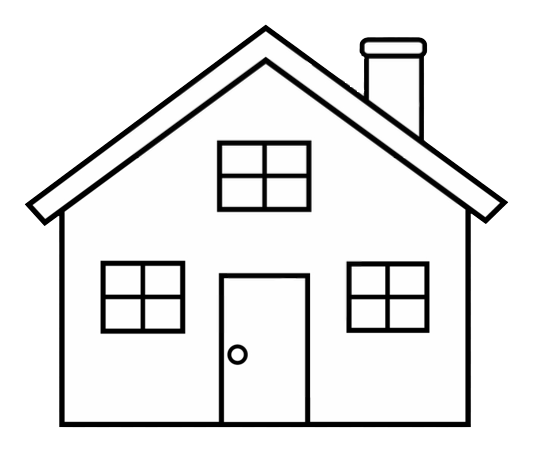
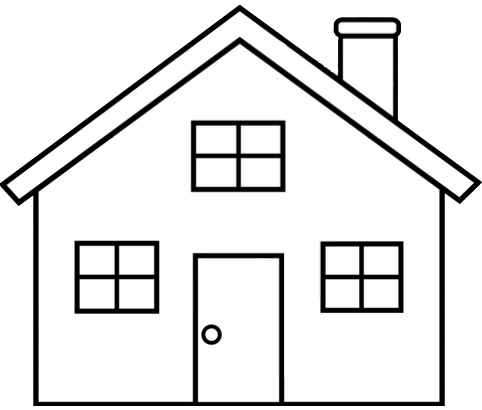
Added new changes.

Changed region(s): [[0.0, 0.0, 1.0, 0.9951], [0.6224, 0.5561, 0.8402, 0.761], [0.3734, 0.2927, 0.5913, 0.4683]]

diff --git a/main.py b/main.py
@@ -1,4 +1,4 @@
-# Pygame project
+# Pygame Project
 
 import pygame
 import random
@@ -11,50 +11,79 @@ YELLOW = (255, 255, 0)
 SKY_BLUE = (95, 165, 228)
 WIDTH = 1280
 HEIGHT = 720
-ENEMY_VELOCITY = 10
-NORMAL_ENEMY_HEALTH = 50
-LIVES = 3
+ENEMY_VELOCITY = 0
 TITLE = "Shinning Over You"
 
-# Create player class
-def rot_center(image, angle, x, y):
-    rotated_image = pygame.transform.rotate(image, angle)
-    new_rect = rotated_image.get_rect(center=image.get_rect(center=(x, y)).center)
+# Create a background
+background_image = pygame.image.load("./assets/house.png")
+background_image = pygame.transform.scale(background_image, (533 / 2, 468 / 2))
 
-    return rotated_image, new_rect
-
-
-class Player(pygame.sprite.Sprite):
-    def __init__(self):
-        # """
-        # :param width: width of the rectangle in px
-        #
-        # """
+# Create a sun class
+class Sun(pygame.sprite.Sprite):
+    def __init__(self, player):
         super().__init__()
 
         # Image
-        # self.image = pygame.Surface([width, width])
-        # # fill the image with an actual shape
-        # pygame.draw.rect(self.image,
-        #                  YELLOW,
-        #                  [WIDTH/2, 10, 400, 200])  # Draw a rectangle as the ray of sun
-
         self.image = pygame.image.load("./assets/sun.png")
 
         # Rect
-
         self.rect = self.image.get_rect()
 
-        # Rotate player
-        self.angle = 2
+        # Location
+        self.rect.center = (0, WIDTH // 2)
 
-    def update(self, *args: Any, **kwargs: Any) -> None:
-        self.image, self.rect = rot_center(self.image, self.angle, )
+        # Sun velocity
+        self.xvel = 10
+
+        self.player = player
+
+    def update(self):
+        # Move with the player in the x direction
+        if self.rect.x < self.player.rect.centerx:
+            self.rect.x += self.xvel
+        if self.rect.x > self.player.rect.centerx:
+            self.rect.x -= self.xvel
+
+# Create a player (rays) class
+class Player(pygame.sprite.Sprite):
+    def __init__(self):
+        super().__init__()
+
+        # Image
+        self.image = pygame.image.load("./assets/rays.png")
+        self.image = pygame.transform.scale(self.image, (self.image.get_width(), HEIGHT))
+
+        # Rect
+        self.rect = self.image.get_rect()
+
+        # Starting player velocity
+        self.xvel = 0
+
+        # Starting player Location
+        self.rect.top = 0
+        self.rect.right = WIDTH // 2
+
+    # Player Movements
+        self.xvel = 0
+
+    def move_left(self):
+        self.xvel = -10
+
+    def move_right(self):
+        self.xvel = 10
+
+    def stop(self):
+        self.xvel = 0
+
+    # Update the player
+    def update(self):
+        # According to player movements
+        self.rect.x += self.xvel
 
 
 # Create enemy class
 class Enemy(pygame.sprite.Sprite):
-    def __init__(self):
+    def __init__(self, protect):
         super().__init__()
 
         # Image
@@ -65,14 +94,33 @@ class Enemy(pygame.sprite.Sprite):
         # Rect
         self.rect = self.image.get_rect()
 
-        # self.xvel & self.yvel
-        self.yvel = ENEMY_VELOCITY
-        self.rect.x = random.randrange(0, WIDTH - self.rect.width)
-        self.rect.y = random.randrange(-250, -150)
+        # Location
+        self.rect.center = random_coords()
+
+        # Enemy velocity
+        self.xvel = 2
+        self.yvel = 2
+
+        self.protect = protect
 
     def update(self):
-        self.rect.y += self.yvel
+        # Move closer to the protect in the x direction
+        if self.rect.x < self.protect.rect.centerx:
+            self.rect.x += self.xvel
+        if self.rect.x > self.protect.rect.centerx:
+            self.rect.x -= self.xvel
 
+        # Move closer to the protect in the y direction
+        if self.rect.y < self.protect.rect.centery:
+            self.rect.y += self.yvel
+        if self.rect.y > self.protect.rect.centery:
+            self.rect.y -= self.yvel
+
+
+def random_coords() -> list:
+    """Returns a random x, y coordinate between
+    0 to WIDTH and 0 to HEIGHT respectively"""
+    return random.randrange(0, WIDTH), random.randrange(0, HEIGHT)
 
 # Create protect class
 class Protect(pygame.sprite.Sprite):
@@ -81,13 +129,18 @@ class Protect(pygame.sprite.Sprite):
 
         # Image
         self.image = pygame.image.load("./assets/normal_face.png")
+        self.image = pygame.transform.scale(self.image,
+                                            (self.image.get_width() / 8,
+                                             self.image.get_height() / 8))
 
         # Rect
         self.rect = self.image.get_rect()
 
+        # Location
+        self.rect.center = (WIDTH / 2,  HEIGHT - self.image.get_height() + 65)
+
 
 def main():
-
     pygame.init()
 
     # ----- SCREEN PROPERTIES
@@ -98,25 +151,33 @@ def main():
     # ----- LOCAL VARIABLES
     done = False
     clock = pygame.time.Clock()
-    num_enemy = 10
-    score = 0
-    default_font = pygame.font.SysFont("SERIF", 20)
+    num_enemy = 20
 
-    # Create sprite groups
+    # Sprite groups
+    all_sprites_group = pygame.sprite.Group()
     enemy_sprites_group = pygame.sprite.Group()
 
-    # Create sprites to fill groups
+    # Add protect to all_sprites_group
+    protect = Protect()
+    all_sprites_group.add(protect)
 
-    # Create enemy sprites
+    # Create enemy sprite group
     for i in range(num_enemy):
-        enemy = Enemy()
-        player = Player()
+        enemy = Enemy(protect)
 
-        # Add the enemy sprites to enemy_sprites_group
+        # Add enemy to both list: all_sprites_group and enemy_sprites_group
+        all_sprites_group.add(enemy)
         enemy_sprites_group.add(enemy)
 
-        # Add the player sprites to enemy_sprites_group
-        enemy_sprites_group.add(player)
+    # Add player to all_sprites_group
+    player = Player()
+    all_sprites_group.add(player)
+
+    # Add sun to all_sprites_group
+    sun = Sun()
+    all_sprites_group.add(sun)
+
+    score = 0
 
     # ----- MAIN LOOP
     while not done:
@@ -125,16 +186,66 @@ def main():
             if event.type == pygame.QUIT:
                 done = True
 
+            # Move player according to pressed key
+            if event.type == pygame.KEYDOWN:
+                if event.key == pygame.K_RIGHT:
+                    player.move_right()
+                if event.key == pygame.K_LEFT:
+                    player.move_left()
+
+            # Stop player if no key is pressed
+            if event.type == pygame.KEYUP:
+                player.stop()
+
+            # Set boundaries for the player
+            if player.rect.right > WIDTH:
+                player.rect.right = WIDTH
+            if player.rect.left < 0:
+                player.rect.left = 0
+
         # ----- LOGIC
-        # Update enemy sprites
-        enemy_sprites_group.update()
+
+        all_sprites_group.update()
+
+        # Collision between player and enemy sprites
+        collided_enemy = pygame.sprite.spritecollide(
+            player,
+            enemy_sprites_group,
+            dokill = True
+        )
+
+        # Collision between protect and enemy sprites
+        attacked_enemy = pygame.sprite.spritecollide(
+            protect,
+            enemy_sprites_group,
+            dokill = True
+        )
+
+        # Add one to score if player and enemy collided
+        if len(collided_enemy) > 0:
+            score += 1
+
+        # Remove one to health if protect and enemy collided
+        health = 3
+        if len(attacked_enemy) > 0:
+            health -= 1
 
         # ----- RENDER
         screen.fill(BLACK)
-        player.update()
+        screen.blit(background_image,
+                    ((WIDTH - background_image.get_width()) / 2, (HEIGHT - background_image.get_height()) + 10))
 
-        # Draw all the sprite groups
-        player.draw(screen)
+        # Add house to the background
+        all_sprites_group.draw(screen)
+
+        # Render score
+        default_font = pygame.font.SysFont("SERIF", 20)
+        score_surf = default_font.render(f"Score: {score}", True, WHITE)
+        screen.blit(score_surf, (10, 10))
+
+        # Render health
+        health_sirf = default_font.render(f"Health: {health}", True, WHITE)
+        screen.blit(health_sirf, (100, 10))
 
         # ----- UPDATE DISPLAY
         pygame.display.flip()
